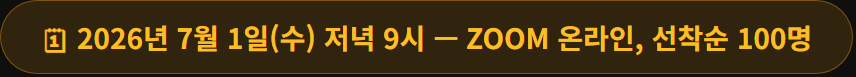
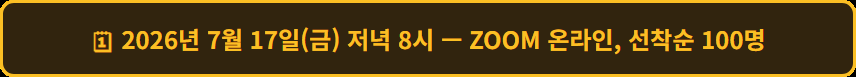
Reschedule photo lecture to 7/17(금) 8PM, add form-submit trigger and VIP cross-promo to confirmation email
- Update landing page, confirmation email, and OG banner from 7/1(수) 9PM to the new date/time
- Regenerate date badge and OG images to match
- Add onFormSubmit trigger so direct Google Form submissions also get a confirmation email
- Add VIP vibe-coding lecture cross-promo box, reorder KakaoTalk group invite in confirmation email
- Add reference docs (source docx, landing page guide, handout PDF)

Changed region(s): [[0.0, 0.0, 1.0, 1.0]]

diff --git a/photo-lecture-email-preview.html b/photo-lecture-email-preview.html
@@ -16,17 +16,23 @@
     <p style="margin:0 0 16px;font-size:16px;"><strong>홍길동</strong>님, 반갑습니다!</p>
     <p style="margin:0 0 20px;color:#475569;line-height:1.7;">
       특강 신청이 정상적으로 접수됐어요.<br>
-      참여 ZOOM 링크는 특강 당일인 7월 1일(수) 저녁 6시까지 이 메일로 다시 안내드리겠습니다.
+      참여 ZOOM 링크는 특강 당일인 7월 17일(금) 저녁 6시까지 이 메일로 다시 안내드리겠습니다.
     </p>
 
-    <div style="background:linear-gradient(135deg,#fef3c7,#fed7aa);border:1px solid #fdba74;border-radius:10px;padding:18px 20px;margin-bottom:20px;text-align:center;">
-      <p style="margin:0 0 6px;font-size:13px;font-weight:700;color:#9a3412;">🎁 신청해 주신 분께 드리는 선물</p>
-      <p style="margin:0 0 12px;font-size:13px;color:#7c2d12;">강의 전 미리 보면 좋은 사전 핸드아웃 PDF를 드려요</p>
-      <a href="https://drive.google.com/file/d/1JjWkBJgoztxhPqZucrpJyLpX5QTOMHQm/view?usp=sharing" style="display:inline-block;background:#fff;color:#9a3412;border:1px solid #fdba74;text-decoration:none;font-size:14px;font-weight:700;padding:11px 28px;border-radius:999px;">📄 사전 핸드아웃 받기</a>
+    <div style="background:linear-gradient(135deg,#ede9fe,#ddd6fe);border:1px solid #c4b5fd;border-radius:10px;padding:18px 20px;margin-bottom:20px;text-align:center;">
+      <p style="margin:0 0 6px;font-size:13px;font-weight:700;color:#5b21b6;">✨ 신청해 주신 분께 드리는 VIP 특별 초대</p>
+      <p style="margin:0 0 12px;font-size:13px;color:#5b21b6;">코딩 몰라도 괜찮아요 — VIP 특강 <strong>"AI 에이전트로 랜딩 페이지 만들기(바이브 코딩)"</strong>에도 초대드려요</p>
+      <a href="https://www.smacedu.kr/lecture-landing.html" style="display:inline-block;background:#fff;color:#5b21b6;border:1px solid #c4b5fd;text-decoration:none;font-size:14px;font-weight:700;padding:11px 28px;border-radius:999px;">✨ 바이브 코딩 강의 보러가기</a>
+    </div>
+
+    <div style="background:#fffbeb;border:1px solid #fde68a;border-radius:10px;padding:16px 18px;margin-bottom:20px;text-align:center;">
+      <p style="margin:0 0 6px;font-size:14px;font-weight:700;color:#92400e;">🎁엘란비탈 무료특강 아카데미 단톡방에 들어오시면</p>
+      <p style="margin:0 0 12px;font-size:13px;color:#7c2d12;">다양한 장르 + 양질의 무료 특강을 자주 만날 수 있습니다.</p>
+      <a href="https://invite.kakao.com/tc/sEmjtp7axZ" style="display:inline-block;background:#FEE500;color:#3c1e1e;text-decoration:none;font-size:14px;font-weight:700;padding:11px 28px;border-radius:999px;">💬 단톡방 입장하기</a>
     </div>
 
     <div style="background:#fef2f2;border:1px solid #fecaca;border-radius:10px;padding:14px 18px;margin-bottom:20px;text-align:center;">
-      <p style="margin:0;font-size:14px;font-weight:700;color:#dc2626;">🗓 7월 1일(수) 저녁 9시 — 잊지 마세요!</p>
+      <p style="margin:0;font-size:14px;font-weight:700;color:#dc2626;">🗓 7월 17일(금) 저녁 8시 — 잊지 마세요!</p>
     </div>
 
     <div style="background:#fff;border:1px solid #e2e8f0;border-radius:10px;padding:20px;margin-bottom:20px;">
@@ -37,7 +43,7 @@
         </tr>
         <tr>
           <td style="padding:7px 0;color:#64748b;">일시</td>
-          <td style="color:#1e293b;font-weight:600;">2026년 7월 1일(수) 저녁 9시</td>
+          <td style="color:#1e293b;font-weight:600;">2026년 7월 17일(금) 저녁 8시</td>
         </tr>
         <tr>
           <td style="padding:7px 0;color:#64748b;">진행 방식</td>
@@ -48,11 +54,6 @@
           <td style="color:#1e293b;">엘란비탈 박성욱 작가 — 스마트미디어아트센터 대표</td>
         </tr>
       </table>
-    </div>
-
-    <div style="background:#fffbeb;border:1px solid #fde68a;border-radius:10px;padding:16px 18px;margin-bottom:20px;text-align:center;">
-      <p style="margin:0 0 10px;font-size:13px;color:#92400e;">강의 공지·자료는 단체 채팅방에서 가장 빠르게 안내드려요</p>
-      <a href="https://invite.kakao.com/tc/sEmjtp7axZ" style="display:inline-block;background:#FEE500;color:#3c1e1e;text-decoration:none;font-size:14px;font-weight:700;padding:11px 28px;border-radius:999px;">💬 엘란비탈 무료특강 아카데미 팀채팅 입장하기</a>
     </div>
 
     <div style="text-align:center;margin-bottom:20px;">

diff --git a/photo-lecture-landing.html b/photo-lecture-landing.html
@@ -6,18 +6,18 @@
   <meta name="viewport" content="width=device-width, initial-scale=1.0" />
   <meta name="format-detection" content="telephone=no, date=no, address=no, email=no" />
   <title>찍는 순간 작품이 되는 스마트폰 사진 — 2시간 온라인 무료 특강</title>
-  <meta name="description" content="같은 폰, 같은 풍경인데 왜 그 사람 사진만 작품이 될까요? 스마트폰 촬영·보정·AI 활용까지 단 2시간, 7월 1일(수) 저녁 9시 무료특강. 신청만 해도 유료급 자료 증정." />
+  <meta name="description" content="같은 폰, 같은 풍경인데 왜 그 사람 사진만 작품이 될까요? 스마트폰 촬영·보정·AI 활용까지 단 2시간, 7월 17일(금) 저녁 8시 무료특강. 신청만 해도 유료급 자료 증정." />
   <meta property="og:type" content="website" />
   <meta property="og:url" content="https://www.smacedu.kr/photo-lecture-landing" />
   <meta property="og:title" content="찍는 순간 작품이 되는 스마트폰 사진 — 2시간 온라인 무료 특강" />
-  <meta property="og:description" content="같은 폰, 같은 풍경인데 왜 그 사람 사진만 작품이 될까요? 스마트폰 촬영·보정·AI 활용까지 단 2시간, 7월 1일(수) 저녁 9시 무료특강. 신청만 해도 유료급 자료 증정." />
-  <meta property="og:image" content="https://www.smacedu.kr/images/photo-lecture-og.png" />
+  <meta property="og:description" content="같은 폰, 같은 풍경인데 왜 그 사람 사진만 작품이 될까요? 스마트폰 촬영·보정·AI 활용까지 단 2시간, 7월 17일(금) 저녁 8시 무료특강. 신청만 해도 유료급 자료 증정." />
+  <meta property="og:image" content="https://www.smacedu.kr/images/photo-lecture-og.png?v=2" />
   <meta property="og:image:width" content="1200" />
   <meta property="og:image:height" content="630" />
   <meta name="twitter:card" content="summary_large_image" />
   <meta name="twitter:title" content="찍는 순간 작품이 되는 스마트폰 사진 — 2시간 온라인 무료 특강" />
   <meta name="twitter:description" content="같은 폰, 같은 풍경인데 왜 그 사람 사진만 작품이 될까요? 신청만 해도 유료급 자료 증정." />
-  <meta name="twitter:image" content="https://www.smacedu.kr/images/photo-lecture-og.png" />
+  <meta name="twitter:image" content="https://www.smacedu.kr/images/photo-lecture-og.png?v=2" />
   <style>
     *, *::before, *::after { box-sizing: border-box; margin: 0; padding: 0; }
 
@@ -799,7 +799,7 @@
     </div>
 
     <div class="reveal" style="margin-top: 0; margin-bottom: 24px;">
-      <img src="images/photo-lecture-date-badge.png" alt="2026년 7월 1일(수) 저녁 9시 — ZOOM 온라인, 선착순 100명" style="width: 100%; max-width: 460px; height: auto; display: block;" />
+      <img src="images/photo-lecture-date-badge.png" alt="2026년 7월 17일(금) 저녁 8시 — ZOOM 온라인, 선착순 100명" style="width: 100%; max-width: 460px; height: auto; display: block;" />
     </div>
 
     <h1 class="reveal">
@@ -926,7 +926,7 @@
       </div>
       <div class="info-row">
         <div class="info-key">일시</div>
-        <div class="info-val">2026&#8203;년 7&#8203;월 1&#8203;일(수) 저녁 9&#8203;시</div>
+        <div class="info-val">2026&#8203;년 7&#8203;월 17&#8203;일(금) 저녁 8&#8203;시</div>
       </div>
       <div class="info-row">
         <div class="info-key">진행 방식</div>
@@ -938,7 +938,7 @@
       </div>
       <div class="info-row">
         <div class="info-key">신청 방법</div>
-        <div class="info-val">아래 ‘무료 신청하기’ 버튼으로 신청서를 작성하시면, 7&#8203;월 1&#8203;일(수) 저녁 6&#8203;시까지 ZOOM 줌링크를 메일로 전달드립니다.</div>
+        <div class="info-val">아래 ‘무료 신청하기’ 버튼으로 신청서를 작성하시면, 7&#8203;월 17&#8203;일(금) 저녁 6&#8203;시까지 ZOOM 줌링크를 메일로 전달드립니다.</div>
       </div>
     </div>
   </div>
@@ -1088,7 +1088,7 @@
         ✦ 무료 신청하기
       </button>
       <p class="cta-note" style="color: #fbbf24; font-weight: 600;">🎁 신청만 해도 유료급 강의 자료를 보내 드립니다</p>
-      <p class="cta-note">신청서 작성 후 7&#8203;월 1&#8203;일(수) 저녁 6&#8203;시까지 ZOOM 줌링크를 메일로 전달드립니다</p>
+      <p class="cta-note">신청서 작성 후 7&#8203;월 17&#8203;일(금) 저녁 6&#8203;시까지 ZOOM 줌링크를 메일로 전달드립니다</p>
     </div>
   </div>
 </section>

diff --git a/documents/랜딩페이지_제작_가이드.md b/documents/랜딩페이지_제작_가이드.md
@@ -1,0 +1,77 @@
+# SMAC EDU 랜딩페이지 제작 가이드
+
+특정 페이지가 아니라 **앞으로 만들 모든 특강 랜딩페이지에 공통으로 적용**해야 하는 패턴 모음. 사진특강 랜딩페이지(`photo-lecture-landing.html`)를 만들면서 겪은 문제와 해법을 일반화한 것.
+
+---
+
+## 1. 신청 폼 필드 규칙
+
+모든 신청 모달은 아래를 기본값으로 한다:
+
+- 이름, 이메일: 필수
+- **연락처: 필수**, `010-1234-5678` 형식 검증 (정규식 `^01[0-9]-\d{3,4}-\d{4}$`)
+- **개인정보 수집·이용 동의 체크박스: 필수** (미체크 시 제출 불가)
+- 하단 안내문: "*제출 버튼을 클릭하시면 개인정보 수집 및 이용에 동의한 것으로 간주됩니다."
+- 동의 체크박스의 실제 응답은 백엔드에서 가짜로 "동의함"을 채우지 말고, 사용자가 실제로 체크한 값만 그대로 기록한다.
+
+## 2. 관리자 알림은 매번 보내지 말고 배치로
+
+신청자 본인에게 가는 확인 메일은 매번 즉시 발송하되, **운영자에게 가는 알림 메일은 누적 신청자 수가 10의 배수가 될 때만(10명, 20명, 30명...) 발송**한다. 매번 알림이 가면 신청이 몰릴 때 정신없다는 피드백을 받았음. 호출될 때는 단순 통보가 아니라 최근 10명을 표로 정리해서 보여준다.
+
+## 3. 전환율을 위한 "신청만 해도 선물" 패턴
+
+- 랜딩페이지의 히어로 CTA 버튼과 하단 CTA 버튼 아래, 둘 다에 "🎁 신청만 해도 [무언가] 드립니다" 문구를 반복 배치 (핵심장점 반복 전략)
+- 신청 확인 메일에 실제 선물(PDF 자료 등) 다운로드 버튼과, 있다면 카카오톡 단체채팅방 입장 버튼을 추가
+- 선물·채팅방 링크는 강의마다 다르므로 매번 사용자에게 확인
+
+## 4. Open Graph 미리보기 이미지는 처음부터 만들어둔다
+
+OG 메타태그가 없으면 카카오톡 등 메신저가 페이지 안의 임의 이미지(보통 강사 사진처럼 가장 눈에 띄는 img 태그)를 미리보기로 가져가 버린다. 매번 다음을 한다:
+
+1. 후킹 카피 + 일정 + 선착순 + 선물 문구를 담은 1200×630 배너를 헤드리스 Chrome 스크린샷으로 직접 제작한다 (디자인 HTML을 만들고 `chrome --headless --window-size=1200,630 --screenshot=...`로 캡처).
+2. `<head>`에 다음을 추가:
+   ```html
+   <meta property="og:type" content="website" />
+   <meta property="og:url" content="https://www.smacedu.kr/[페이지명]" />
+   <meta property="og:title" content="..." />
+   <meta property="og:description" content="..." />
+   <meta property="og:image" content="https://www.smacedu.kr/images/[배너].png" />
+   <meta property="og:image:width" content="1200" />
+   <meta property="og:image:height" content="630" />
+   <meta name="twitter:card" content="summary_large_image" />
+   ```
+3. **카카오 캐시 주의**: 카카오는 링크 미리보기를 한동안 캐싱한다. 배포 후 바로 확인하려면 URL 끝에 `?v=2` 같은 더미 쿼리스트링을 붙여서 공유한다 (페이지는 동일하게 서빙되고, 카카오만 "새 URL"로 인식해서 새로 긁어감). 정식 URL은 며칠~몇 주 후 자연스럽게 캐시가 풀리며 갱신된다.
+
+## 5. 모바일 브라우저의 날짜/전화번호 자동 감지를 반드시 의심한다
+
+**증상**: 페이지에 적어둔 날짜·시간 문구(예: "2026년 7월 1일(수) 저녁 9시")가 모바일에서만 숫자 부분이 이상하게 보임 — 삼성 인터넷·카카오톡 인앱 브라우저에서는 숫자마다 칩 박스가 둘러쳐지고, 다른 브라우저에서는 숫자만 흐리게/다른 색으로 표시됨. 데스크톱에서는 정상으로 보여서 놓치기 쉽다.
+
+**원인**: 전화번호를 자동으로 통화 링크로 바꿔주는 것과 같은, 모바일 브라우저의 "스마트 텍스트 감지" 기능이 날짜 패턴을 인식해서 자기 스타일로 다시 그려버리는 것. 페이지 CSS/디자인 문제가 아니라 방문자 브라우저가 콘텐츠를 가로채는 문제다.
+
+**효과 없었던 방법** (순서대로 시도했지만 실패):
+1. `<meta name="format-detection" content="telephone=no, date=no, address=no, email=no">` — iOS Safari 표준 방법이지만 삼성 인터넷은 따르지 않음.
+2. 숫자와 단위(년/월/일/시) 사이에 zero-width space(`&#8203;`) 삽입해서 정규식 패턴을 깨뜨리는 시도 — 시각적으로는 동일하지만 삼성 인터넷에는 효과 없었음.
+
+**확실하게 통하는 방법**: 날짜/시간이 강조되어야 하는 배지·헤드라인 같은 짧은 텍스트는 **처음부터 PNG 이미지로 만들어서 `<img>`로 넣는다.** 이미지 안의 텍스트는 브라우저가 "글자"로 인식할 수 없어서 자동 감지 자체가 원천적으로 불가능해진다.
+
+- 이미지는 헤드리스 Chrome으로 디자인 HTML을 스크린샷해서 만들면 됨 (실제 CSS 폰트·색상 그대로 재현 가능)
+- `<img>`에는 반드시 `alt`로 같은 텍스트를 넣어 접근성·SEO 보존
+- `style="width: 100%; max-width: [원래 배지 너비에 맞는 값]px; height: auto; display: block;"`로 반응형 처리
+- 본문 문단처럼 줄바꿈이 자유로워야 하는 긴 텍스트에는 이 방법을 쓰지 말고, 짧고 고정된 배지·헤드라인류에만 적용
+
+**테스트 시 주의**: 로컬 헤드리스 Chrome에 `--window-size=390,900` 같은 좁은 값을 줘도 `viewport meta`의 `width=device-width`가 항상 기대대로 적용되지 않아서, 모바일이 아니라 데스크톱 레이아웃을 그냥 잘라서 보여주는 경우가 있었다. 모바일 렌더링 확인은 **실제 기기 스크린샷이 훨씬 신뢰할 수 있는 방법**이다.
+
+## 6. Apps Script로 신청 처리할 때
+
+- 신청 데이터를 모을 스프레드시트가 이미 정해져 있다면(공식 신청서 등), **그 시트에 직접 바인딩된 전용 스크립트를 새로 만드는 편이 기존 공용 스크립트를 찾아 고치는 것보다 빠르고 안전**하다. 이 저장소에는 Apps Script가 여러 개의 독립 프로젝트로 흩어져 있어서, 어떤 게 실제 운영 중인 스크립트인지 식별하는 데 시간이 걸렸음.
+- 코드를 수정해도 git push만으로는 적용되지 않는다 — Apps Script 편집기에서 직접 코드 갱신 후 **배포 → 배포 관리 → 새 버전 → 배포**가 별도로 필요하다는 것을 매번 사용자에게 안내한다.
+
+## 7. 작업 검증 방법
+
+- HTML 변경 후에는 태그 짝(div/section/script/style) 개수가 맞는지 빠르게 확인하고, 헤드리스 Chrome으로 스크린샷을 찍어 섹션별로 실제 렌더링을 눈으로 확인한다.
+- `.reveal` 스크롤 애니메이션 때문에 단순 스크린샷은 요소가 흐리게/안 보이게 찍힐 수 있다 — `--virtual-time-budget`을 충분히 주거나, 테스트용 사본에 `.reveal{opacity:1!important}`를 임시로 덧붙여서 확인 후 삭제한다.
+- 신청 폼 동작은 실제로 한 번 제출해보고, 시트에 행이 쌓이는지 + 확인 메일이 오는지 + (10명 단위라면) 관리자 알림이 오는지까지 확인한다.
+
+---
+
+이 문서는 페이지별 작업 기록이 아니라 **다음 랜딩페이지를 만들 때 그대로 적용할 체크리스트**다. 페이지별 구체적인 작업 내역은 각 페이지의 `[페이지명]-작업정리.md`에 남긴다 (예: `photo-lecture-landing-작업정리.md`).

diff --git a/documents/photo-lecture-landing-작업정리.md b/documents/photo-lecture-landing-작업정리.md
@@ -5,6 +5,9 @@
 - [photo-lecture-landing.html](../photo-lecture-landing.html) — 7/1(수) 스마트폰 사진특강 랜딩페이지
 - [photo-lecture-apps-script.gs](../photo-lecture-apps-script.gs) — 이 페이지 전용 신청 처리 백엔드 (로컬 보관용 사본, 실제 동작은 Google Apps Script 배포본)
 - [videos/intro.mp4](../videos/intro.mp4) — 히어로 영역 인트로 영상 (10초, 자동재생·무음·반복)
+- [photo-lecture-email-preview.html](../photo-lecture-email-preview.html) — 신청 확인 메일 미리보기 (배포 없이 브라우저로 바로 확인용)
+- [images/photo-lecture-og.png](../images/photo-lecture-og.png) — 카카오톡 등 링크 공유 시 노출되는 미리보기 이미지
+- [images/photo-lecture-date-badge.png](../images/photo-lecture-date-badge.png) — 히어로의 일정 배지(이미지로 박아 넣은 날짜 텍스트, 아래 "모바일 날짜 자동인식 버그" 참고)
 
 ## 페이지 구성
 
@@ -64,6 +67,25 @@
 - **연락처: 필수**, `010-1234-5678` 형식 검증 (정규식 `^01[0-9]-\d{3,4}-\d{4}$`)
 - **개인정보 수집·이용 동의 체크박스: 필수** (미체크 시 제출 불가)
 - 하단 안내문: "*제출 버튼을 클릭하시면 개인정보 수집 및 이용에 동의한 것으로 간주됩니다."
+
+## 신청 유도 선물 (전환율 보강)
+
+신청만 해도 자료를 주는 미끼 제공 — "핵심장점 반복" 전략대로 페이지 안에서 2곳에 동일 문구 반복:
+
+- `photo-lecture-landing.html`: 히어로 CTA 버튼 아래, 하단 CTA 섹션 버튼 아래 — "🎁 신청만 해도 유료급 강의 자료를 보내 드립니다" (노란색 강조)
+- `photo-lecture-apps-script.gs`의 확인 메일에 두 가지 추가:
+  1. **선물 박스** — 사전 핸드아웃 PDF(`엘란비탈 스마트폰 사진 특강 사전 핸드아웃.pdf`, Google Drive 링크) 다운로드 버튼. 인사말 바로 다음, ZOOM 일정 안내 박스 위에 배치.
+  2. **카카오톡 단체채팅방 입장 버튼** — `https://invite.kakao.com/tc/sEmjtp7axZ` ("엘란비탈 무료특강 아카데미 팀채팅"), 카카오 브랜드 노란색(#FEE500)으로 스타일링. "특강 페이지 다시 보기" 버튼 위에 배치.
+- 이 메일 변경은 Apps Script 재배포가 필요 (git push로는 적용 안 됨).
+
+## Open Graph 미리보기 이미지 / 모바일 날짜 자동인식 버그
+
+이 두 가지는 이 페이지만의 문제가 아니라 **앞으로 만들 모든 랜딩페이지에 공통으로 적용해야 할 패턴**이라서, 일반 가이드로 분리해 정리함 → [랜딩페이지_제작_가이드.md](랜딩페이지_제작_가이드.md) 4번, 5번 항목 참고.
+
+이 페이지에서의 구체적인 결과물만 남기면:
+- 미리보기 배너: `images/photo-lecture-og.png` (1200×630)
+- 날짜 배지 이미지: `images/photo-lecture-date-badge.png` (히어로의 "🗓 2026년 7월 1일(수)..." 배지를 이미지로 교체)
+- 정보 안내 박스의 "일시" 줄, CTA 하단 날짜 문구 등 다른 곳에도 같은 날짜 패턴이 평문으로 남아있어서, 같은 증상이 재현되면 동일하게 이미지로 교체 필요 (아직 미확인).
 
 ## 알아두면 좋은 것
 